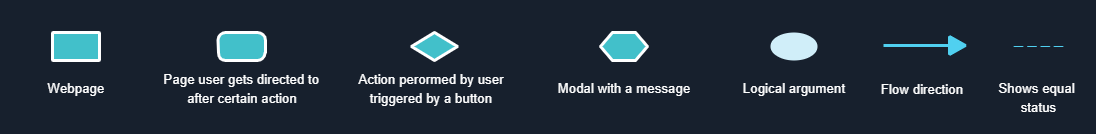
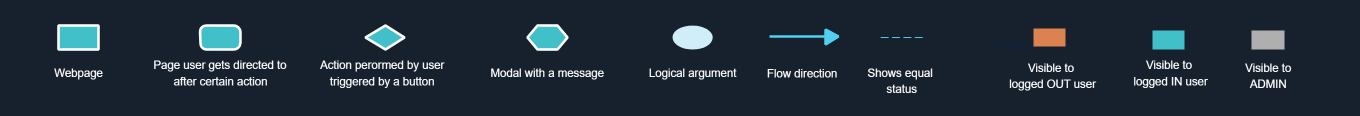
Update user journey screenshot in README.md

diff --git a/README.md b/README.md
@@ -2,6 +2,8 @@
 
 
 ![Overview](./sewingsquad/static/images/readme_docs/responsive_design.JPG)
+![Overview](./sewingsquad/static/images/readme_docs/responsive_design2.PNG)
+![Overview](./sewingsquad/static/images/readme_docs/responsive_design3.PNG)
 
 
 Link to the page: [Sewing Squad](http://sewing-squad-a989d3fdde75.herokuapp.com/)
@@ -146,9 +148,10 @@ The images used by copying email addresses from etsy and other google search. Im
 
 ## User Journey
 
-![User journey legend](./sewingsquad/static/images/readme_docs/database_and_user_journey/user_journey_legend2.PNG)
-![User journey Part1](./sewingsquad/static/images/readme_docs/database_and_user_journey/user_journey11.PNG)
-![User journey Part2](./sewingsquad/static/images/readme_docs/database_and_user_journey/user_journey12.PNG)
+![User journey legend](./sewingsquad/static/images/readme_docs/database_and_user_journey/user_journey_legend.PNG)
+![User journey Part1](./sewingsquad/static/images/readme_docs/database_and_user_journey/user_journey1.PNG)
+![User journey Part2](./sewingsquad/static/images/readme_docs/database_and_user_journey/user_journey2.PNG)
+
 
 
 ## Database Scheme 
